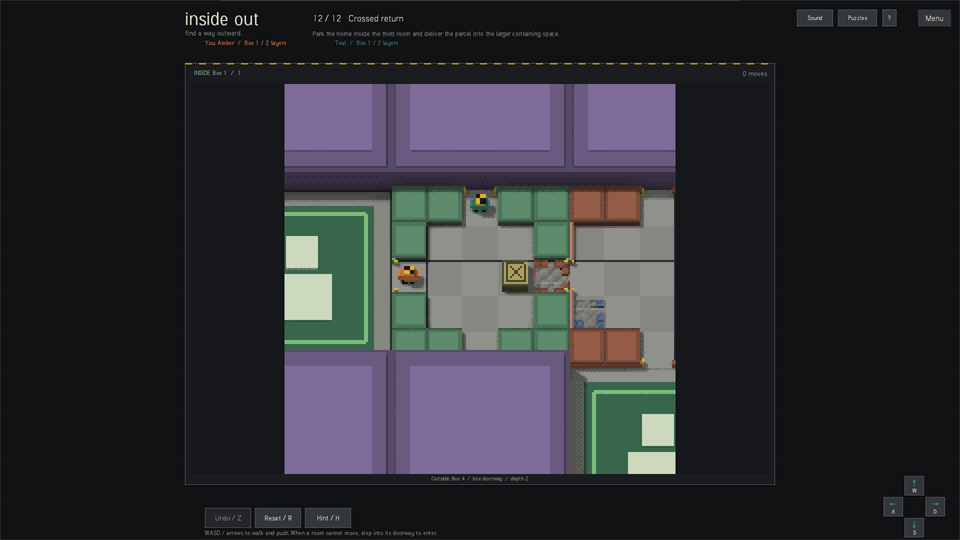
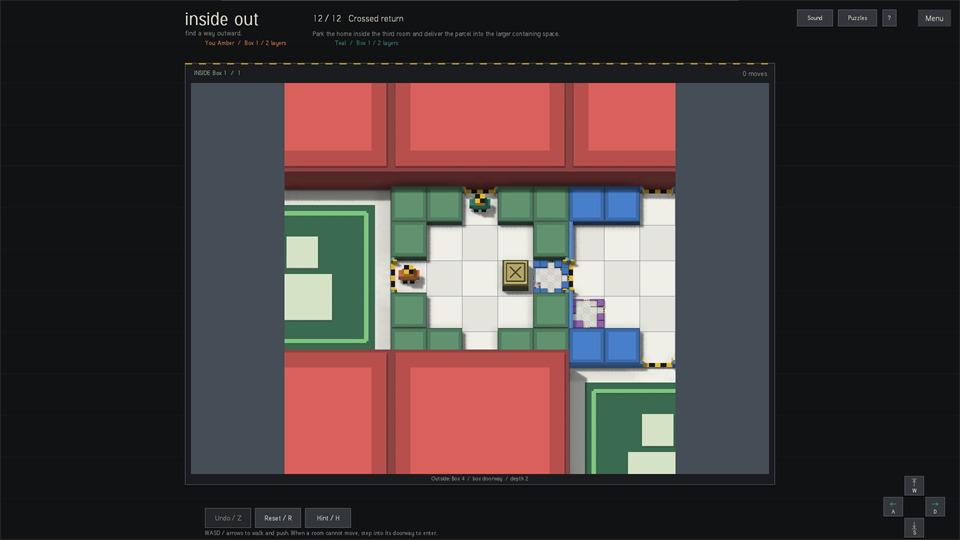
feat: give Inside Out a bright crash-test lab look

diff --git a/docs/src/routes/admin/prototypes/+page.server.ts b/docs/src/routes/admin/prototypes/+page.server.ts
@@ -12,7 +12,7 @@ const prototypes = [
     },
     {
         id: 'inside-out', title: 'Inside Out', kind: 'Cooperative puzzle · Nested rooms', players: '2 players',
-        description: 'Start inside a box within another room and find your way out together. Fit movable rooms through tight spaces, enter boxes that contain themselves, and solve twelve puzzles with varied shapes and doorways. Each test dummy sees their own room and its immediate surroundings: a factory of painted steel containers and concrete, drawn in chunky, dithered early-3D pixels.',
+        description: 'Start inside a box within another room and find your way out together. Fit movable rooms through tight spaces, enter boxes that contain themselves, and solve twelve puzzles with varied shapes and doorways. Each test dummy sees their own room and its immediate surroundings: a bright crash-test lab of boldly painted boxes with yellow and black striped doorways.',
         image: '/prototypes/inside-out/thumbnail.png',
     },
     {

diff --git a/notes/inside-out.md b/notes/inside-out.md
@@ -81,8 +81,7 @@ Leaving a room, the in-room copy of a dummy now stays opaque until it
 stands in the doorway (progress 0.22..0.30) instead of fading from the
 first frame: the doorway pose is clipped to the opening while inside, so
 the old crossfade left the dummy mostly invisible on its way to the door
-(owner: "the tiny guy when I exit seems to mostly vanish"). The coverage
-pattern of `SceneCovered` is now in composite blocks.
+(owner: "the tiny guy when I exit seems to mostly vanish").
 
 Self-placement and two-room cycles are allowed without cloning interiors.
 `Entry.box` resolves the live entered instance, so a moved occupied box
@@ -148,6 +147,24 @@ No temporal jitter or geometry-dependent camera fitting is used. Alpha and
 doorway ground-column discard rules are shared by all mesh passes. The
 composite explicitly clips the board because Blit does not inherit Draw.Clip.
 Workbench prepares geometry and SceneLighting owns view-only shader draws.
+
+Current look: a bright crash-test lab (2026-10-12). The owner found the PSX
+block filter made small nested boxes lose all their detail, preferred the
+earlier clean render while their partner had not, asked for "a mix of
+simple yet themed", and took my recommendation. `render.tide` is the 3D
+revision's again, byte for byte: full resolution, soft shadows, SSAO, no
+blocks, no shade steps. The theme is paint and large shapes only, so it
+survives when a box is a few pixels wide: pale flooring whose slab joints
+are the taped grid, a mid grey-blue void, light grey hall panels, boxes in
+bold flat paints (green, blue, violet, coral red; Box 1's green is still
+the browser fixture's `homeMaterial`), a yellow/black striped threshold on
+the floor of every doorway between yellow posts (`HazardEdge` with a finer
+stripe), warning-yellow parcel targets, and the dummies described below.
+Wall panels keep the rim-and-face shape, floors the plain slabs, and the
+UI its charcoal and yellow. The two paragraphs that follow describe the
+superseded factory/PSX passes; what they say of the dummies, door posts,
+hazard edges and UI still holds, what they say of blocks, shades, grain and
+container colours does not.
 
 The factory look (2026-10-12; the owner asked for "factory vibe, we are
 testing dummies; PSX style", then after the first pass: the dummies "look
@@ -275,6 +292,21 @@ prototype beside its thumbnail. Public play remains
 serving/deployment contracts remain in `notes/private-prototypes.md` and
 `notes/docs-site.md`.
 
+
+## Crash-test lab look validation (2026-10-12)
+
+Presentation only: `render.tide` restored to the 3D revision's, new paints
+and a doorway threshold in `paint.tide`, one constant in `ui.tide`, README,
+catalog text and thumbnail. Native debug and web debug builds are
+warning-free; the 33 fixtures pass natively and under WASI;
+`inside_out_play_webgl` passes in 127.32 s and `inside_out_play_webgpu` in
+100.31 s; the docs production build passes. Bounded native captures at
+1280x800, 1920x1080 and 390x844 were inspected, including nested boxes a
+few tiles across, which keep their walls, thresholds and dummies. The
+thumbnail is the 1920x1080 capture of puzzle 12 halved, 101,371 bytes,
[1 lines of base64/hex data omitted]
+Web release pages were not rebuilt or staged and nothing was deployed. No
+CI was dispatched.
 
 ## Facing doorways and cleaner PSX validation (2026-10-12)
 

diff --git a/prototypes/inside-out/README.md b/prototypes/inside-out/README.md
@@ -2,15 +2,14 @@
 
 A cooperative puzzle game for **two friends in separate browsers**.
 You are two test dummies packed in a small box, itself inside another room
-on a factory floor. Work your way out.
+in a crash-test lab. Work your way out.
 Push rooms with your partner inside, fit them through tight passages, and
 move boxes into their own interiors. Repeated views of a room share one
 set of parcels, boxes and people.
 
-The 3D rooms keep a fixed, gently tilted view of a factory drawn like an
-early 3D console game: chunky pixels and flat, stepped shades on painted
-steel containers, concrete slabs and warning yellow, with quiet
-ventilation.
+The 3D rooms keep a fixed, gently tilted view of a bright test lab: pale
+flooring, boldly painted boxes, yellow and black striped doorways and soft
+shadows, with quiet ventilation.
 There are no threats or jumpscares.
 
 Play at <https://tide-engine.dev/prototypes/inside-out/>. The admin prototype

diff --git a/notes/private-prototypes.md b/notes/private-prototypes.md
@@ -78,8 +78,8 @@ its `<id>_page` target and its `private_games` block, plus the id in
   showing part of a maker standing beside the box,
   permits the partner to leave the view, and enters a facing doorway only after the
   automatic room push is blocked. Shift and the touch push toggle are removed.
-  Spatial constraints replace switch locks. The current look (2026-10-12) is a factory where the
-  players are two test dummies, drawn in a PSX style, with ventilation ambience
+  Spatial constraints replace switch locks. The current look (2026-10-12) is a bright crash-test lab where the
+  players are two test dummies, with ventilation ambience
   and no threats or jumpscares; the catalog description and thumbnail follow it.
 
 - Underfoot (`underfoot`): `prototypes/underfoot/`, a puzzle for one or two

diff --git a/notes/docs-site.md b/notes/docs-site.md
@@ -18,8 +18,8 @@ preview reloads its title screen without console errors.
 
 Inside Out nested-box revision (2026-10-11; 2D presentation superseded): the existing catalog now describes
 starting inside nested rooms, varied shapes and offset doors, spatial planning
-and movable self-containing boxes. Its gameplay treatment is a factory with two
-test dummies, drawn in a PSX style (`notes/inside-out.md`). Public serving and catalog
+and movable self-containing boxes. Its gameplay treatment is a bright crash-test lab
+with two test dummies (`notes/inside-out.md`). Public serving and catalog
 authentication remain unchanged; Underfoot, Inside Out, CRACKED and Two Forks
 are retained. Game-specific contracts and evidence are in `notes/inside-out.md`.
 
